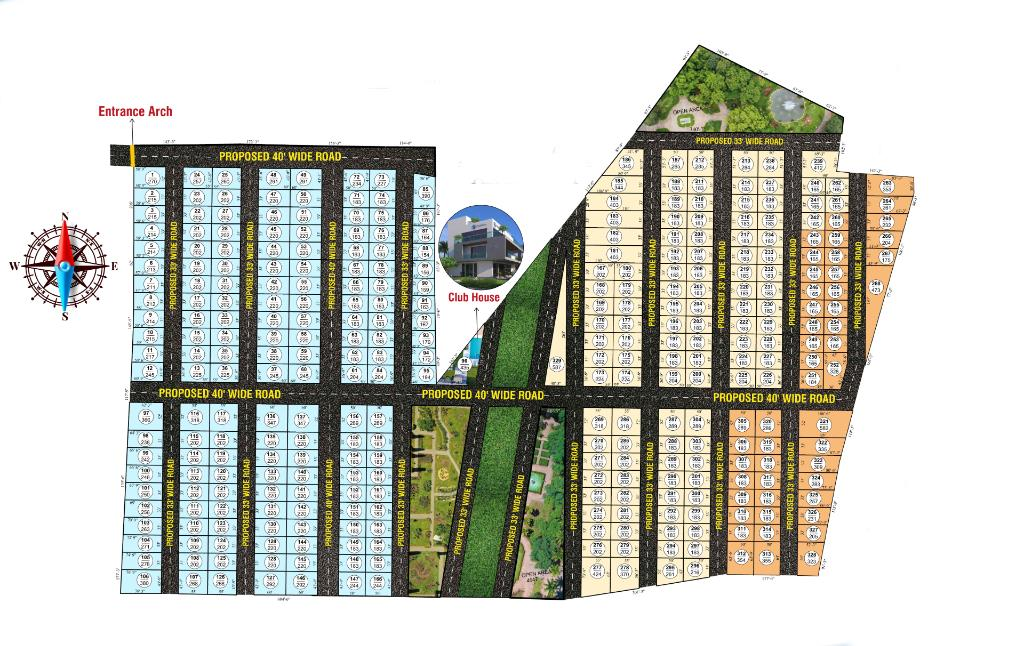
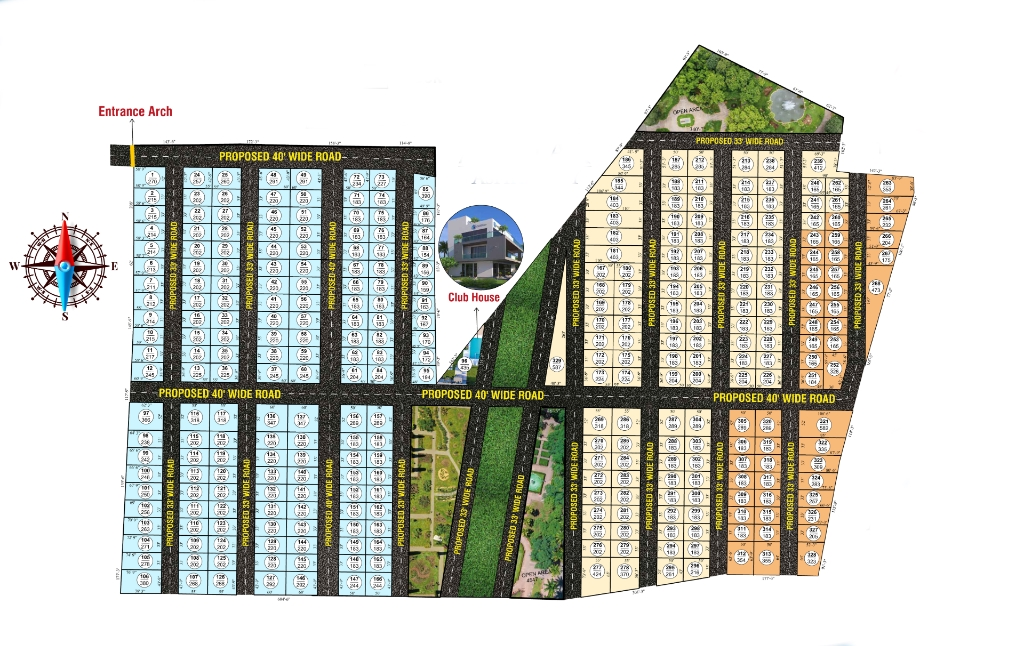
Re-encode layout images at 100% maximum quality (zero compression loss) and enable crisp contrast image rendering

diff --git a/style.css b/style.css
@@ -705,6 +705,8 @@ body {
     pointer-events: none;
     display: block;
     transition: opacity 0.25s ease-in-out;
+    image-rendering: -webkit-optimize-contrast;
+    image-rendering: crisp-edges;
 }
 
 .plots-overlay {

diff --git a/avatar2_digi/style.css b/avatar2_digi/style.css
@@ -505,6 +505,8 @@ body {
     height: 646px;
     display: block;
     pointer-events: none;
+    image-rendering: -webkit-optimize-contrast;
+    image-rendering: crisp-edges;
 }
 
 .plots-overlay {
